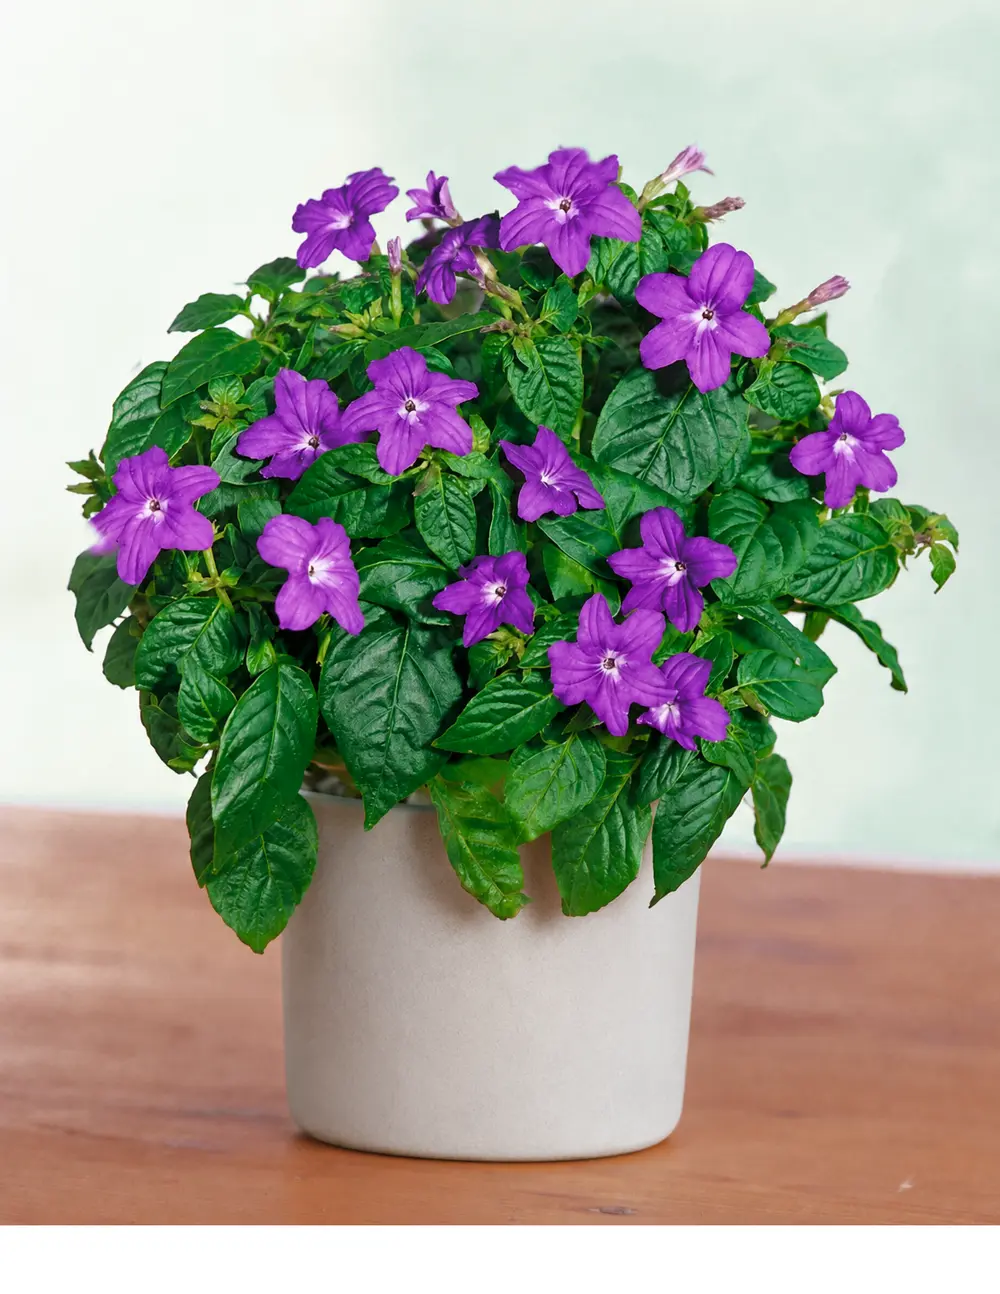
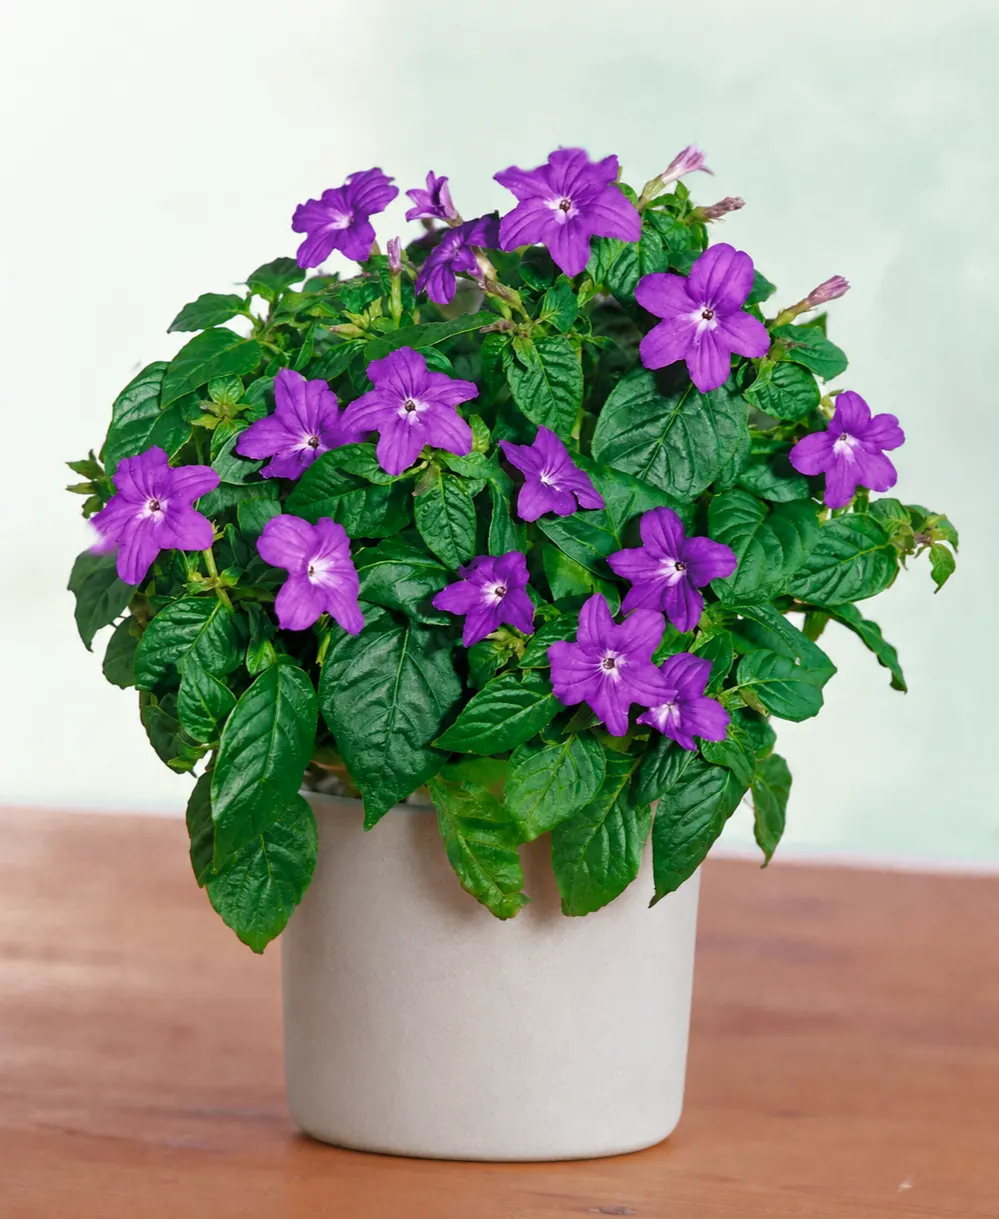
ver 134

diff --git a/src/styles/styles.css b/src/styles/styles.css
@@ -210,6 +210,23 @@ html {
   text-decoration: underline !important;
   text-underline-offset: 3px !important;
 }
+.photo-credit {
+  margin-top: -0.8rem;
+  font-size: 0.85rem;
+  color: var(--text-clr-dark-m);
+  opacity: 0.95;
+}
+.photo-credit a {
+  color: var(--text-clr-dark-m);
+  text-decoration: none;
+  border-bottom: 1px dotted currentColor;
+}
+.article-tip {
+  padding-inline: 1rem;
+  border-left: 6px solid var(--accent-clr-4);
+  border-radius: 5px;
+  border-right: 6px solid var(--accent-clr-4);
+}
 .all-categories-h2 {
   font-size: 1.5rem;
   font-weight: 600;

diff --git a/src/content/komnatnye-rasteniya/spisok-po-alfavitu/b/browallia-speciosa.md b/src/content/komnatnye-rasteniya/spisok-po-alfavitu/b/browallia-speciosa.md
@@ -42,7 +42,7 @@ category: {
 
 
 ## Температура
-Температура играет важную роль в поддержании здоровья броваллии и стимулировании цветения. Поскольку это тропическое растение, оно любят тепло и не переносит холода или мороза. В помещении оно лучше всего растет в комнатах с комфортной, стабильной температурой, без резких перепадов.
+Температура играет важную роль в поддержании здоровья броваллии и стимулировании цветения. Поскольку это тропическое растение, оно любят тепло и не переносит холода или мороза. В помещении оно лучше всего растет в комнатах с комфортной, стабильной температурой без резких перепадов.
 
 Оптимальный диапазон температур в дневное время составляет 18–24°C. Ночью растение может переносить немного более низкие температуры, но не допускайте, чтобы растение находилось в местах с холодными сквозняками или подвергалось резким перепадам температуры. Не размещайте броваллию непосредственно рядом с обогревателями или кондиционерами, так как горячий сухой воздух может нанести вред растению.
 
@@ -53,22 +53,30 @@ category: {
 
 Несколько часов мягкого утреннего или позднего послеполуденного солнца могут пойти растению на пользу. Однако сильные прямые солнечные лучи, проникающие через южное окно, могут быть губительны, особенно летом. В таком случае используйте тюлевые шторы или солнцезащитную пленку.
 
-1. First item
-2. Second item
-3. Third item
-4. Fourth item
-
 ![Броваллия вблизи](/images/komnatnye-rasteniya/browallia-speciosa-close-up1.webp)
 
-## Цветочная поляна
+## Полив и влажность
 
-Цветы особенно заметны в те дни, когда солнце светит не слишком ярко. Розовые лепестки становятся немного прозрачными, белые цветы отражают небо, а красные напоминают о чём-то далёком и совершенно необязательном. В саду один цветок может распуститься утром, другой вечером, и между ними возникает небольшая пауза, которую трудно заметить. Пчёлы прилетают к цветам без всякого объяснения, собирают пыльцу и улетают, оставляя сад таким же, каким он был до их появления.
+Как поливать:
 
-У каждого растения есть своё время, хотя время растений отличается от времени человека. Семя долго находится в земле, затем появляется тонкий стебель, после чего возникают листья, которые постепенно становятся шире. Никто не знает, почему один росток оказывается сильнее другого, но оба продолжают тянуться вверх, если рядом есть вода и свет. Иногда дождь меняет направление травы, а после нескольких солнечных дней она снова поднимается и становится почти незаметной среди других растений.
+- Пощупайте поверхность почвы пальцем.
+- Если она кажется немного сухой, хорошо полейте растение.
+- Дайте лишней воде стечь из горшка.
+- Если вода скапливается в поддоне или декоративном горшке, слейте её.
+- Перед следующим поливом снова проверьте почву.
 
-![Листья алоэ вблизи](/images/komnatnye-rasteniya/aloe-vera-close-up.webp)
+Такой подход более надежен, чем полив по строгому графику, поскольку потребности растения могут значительно меняться в зависимости от сезона и условий выращивания.
 
-На поляне можно встретить множество оттенков зелёного, которые трудно назвать одинаковыми. Светлая трава растёт возле тёмного кустарника, между ними лежат сухие листья, а над всем этим находятся ветви старой берёзы. Где-то неподалёку может быть ручей, хотя его не видно, и вода продолжает двигаться между камнями, как будто знает дорогу заранее. В природе вообще много вещей, которые происходят без объявления: раскрывается бутон, падает лист, созревает ягода, и пространство постепенно становится другим.
+<div class="article-tip">
+Поддерживайте почву влажной, но не переувлажняйте, и убедитесь, что она хорошо дренируется.
+</div>
+
+
+![Цветок броваллии вблизи](/images/komnatnye-rasteniya/browallia-speciosa-close-up.jpg)
+
+<div class="photo-credit">
+Фото: C T Johansson, <a href="https://commons.wikimedia.org/wiki/File:IMG_7246-Browallia_speciosa.jpg">Wikimedia Commons</a>, лицензия <a href="https://creativecommons.org/licenses/by/3.0/">CC BY 3.0</a>.
+</div>
 
 ## Невероятная жизнь домашних растений
 
@@ -78,12 +86,10 @@ category: {
 
 После дождя сад становится немного тяжелее, чем был до него. Листья покрываются водой, лепестки пригибаются к земле, а дорожки приобретают тёмный цвет. На поверхности одной лужи может плавать маленький лист, который ветер переносит от края к краю, не выбирая конечного направления. Через некоторое время облака расходятся, и солнце снова освещает цветы, будто дождя вообще не существовало.
 
-![Листья алоэ вблизи](/images/komnatnye-rasteniya/adenium-potted.webp)
 
 ## Свежий осенний воздух
 Утро приходит в сад раньше, чем раскрываются первые цветы, и поэтому розовые бутоны некоторое время остаются задумчивыми. На листьях лежат капли воды, которые отражают небо, хотя само небо в них помещается только частично. Возле старой клумбы растёт трава, и некоторые её стебли наклоняются к земле без видимой причины. Иногда между ними появляется маленький белый цветок, который вчера ещё был зелёным и поэтому не обращал на себя внимания.
 
-![Листья алоэ вблизи](/images/komnatnye-rasteniya/adenium-close-up.webp)
 
 ## А причем тут, собственно, алоэ?
 На цветочной поляне каждый цветок занимает столько места, сколько ему необходимо для собственного существования. Жёлтые соцветия находятся ближе к солнцу, фиолетовые растут возле камней, а маленькие голубые цветы почти теряются в траве. Иногда над поляной пролетает бабочка и выбирает цветок совершенно случайным образом, хотя со стороны кажется, что у неё есть определённый план. После её ухода лепестки продолжают колыхаться, как будто помнят направление полёта.
